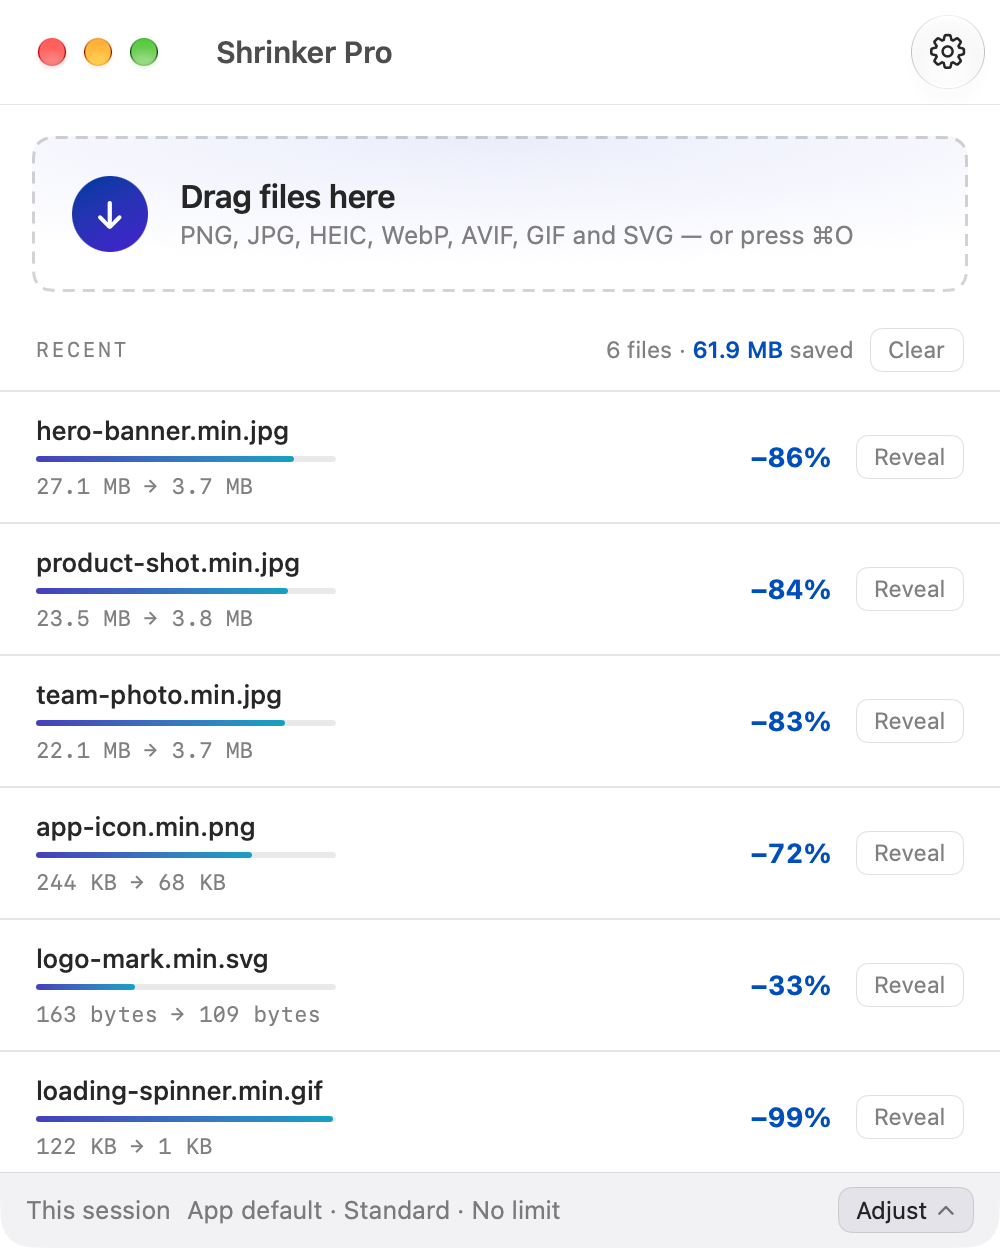
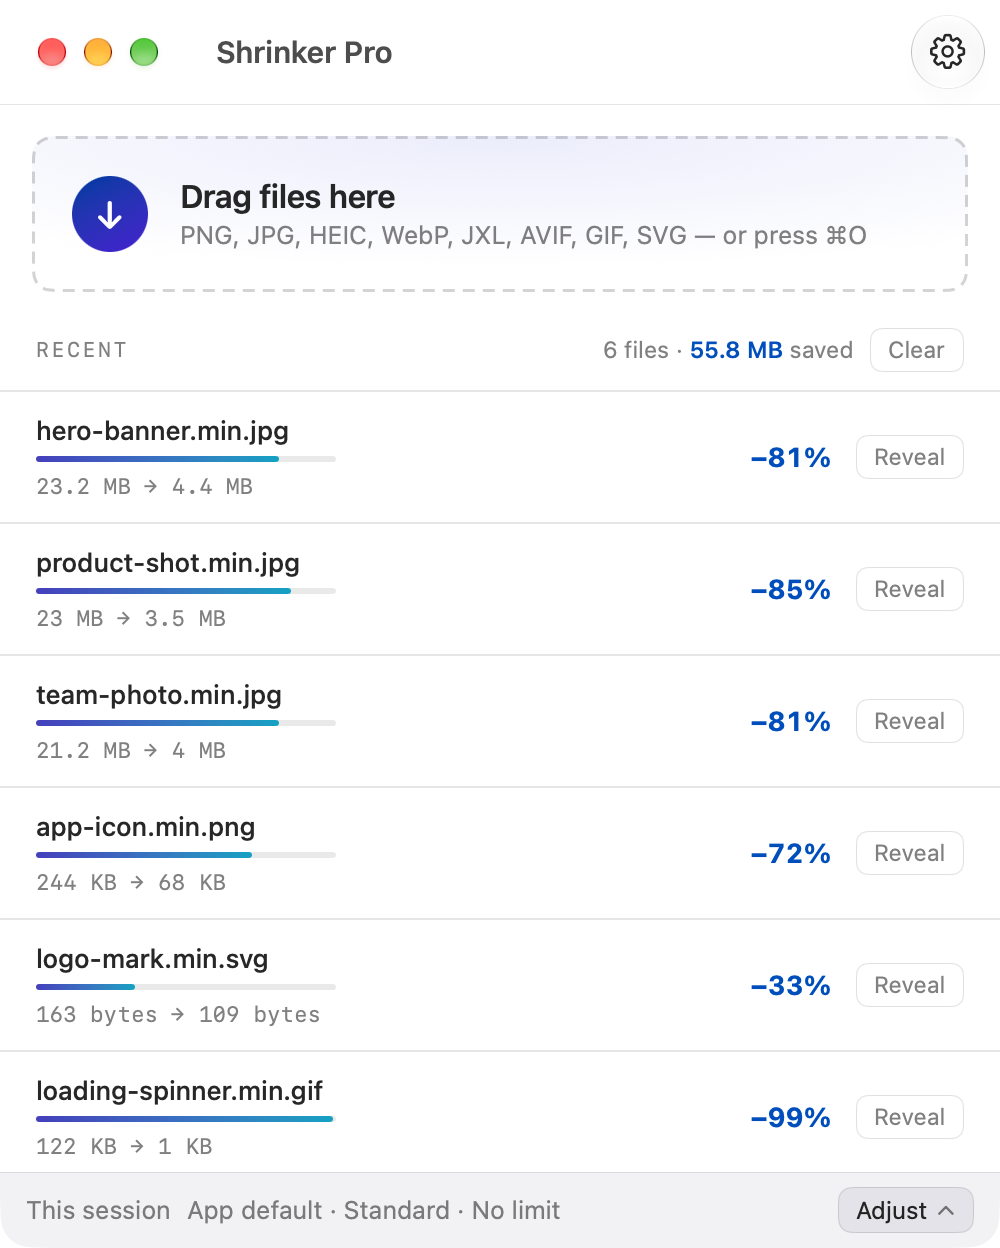
Retake the screenshots that show JPEG XL's absence
The drop zone's format line (empty state and main window) and the
Conversion tab, which gained a JPEG XL row and is 38pt taller. Taken
from the 1.6.1 build at shipping defaults, so the drop zone shows the
line that fits; the main window's six rows are a fresh run with the
1.6.1 encoders, on the same renamed files as before.

Claude-Session: https://claude.ai/code/session_01L3Gjhk42DaTdpiWzBBWWHm

diff --git a/README.md b/README.md
@@ -406,7 +406,7 @@ mozjpeg's progressive scans survive a metadata change intact.
 <picture>
   <source media="(prefers-color-scheme: dark)" srcset="docs/screenshots/empty-state-compact-dark.png">
   <source media="(prefers-color-scheme: light)" srcset="docs/screenshots/empty-state-compact-light.png">
-  <img src="docs/screenshots/empty-state-compact-dark.png" alt="The window at rest, showing a dashed drop zone reading “Drag files here — PNG, JPG, HEIC, WebP, AVIF, GIF and SVG”, and the session settings bar reading “This session — App default · Standard · No limit” with an Adjust button.">
+  <img src="docs/screenshots/empty-state-compact-dark.png" alt="The window at rest, showing a dashed drop zone reading “Drag files here — PNG, JPG, HEIC, WebP, JXL, AVIF, GIF, SVG”, and the session settings bar reading “This session — App default · Standard · No limit” with an Adjust button.">
 </picture>
 
 Drop anywhere in the window, not just the dashed zone.
@@ -423,7 +423,7 @@ Drop anywhere in the window, not just the dashed zone.
 <picture>
   <source media="(prefers-color-scheme: dark)" srcset="docs/screenshots/settings-conversion-dark.png">
   <source media="(prefers-color-scheme: light)" srcset="docs/screenshots/settings-conversion-light.png">
-  <img src="docs/screenshots/settings-conversion-dark.png" alt="The Conversion tab of Settings: one rule per format for PNG, JPEG, HEIC/HEIF, WebP and AVIF, and the Quality level used when encoding.">
+  <img src="docs/screenshots/settings-conversion-dark.png" alt="The Conversion tab of Settings: one rule per format for PNG, JPEG, HEIC/HEIF, WebP, AVIF and JPEG XL, and the Quality level used when encoding.">
 </picture>
 
 The **Output** tab: where files go, what they are called, what metadata
